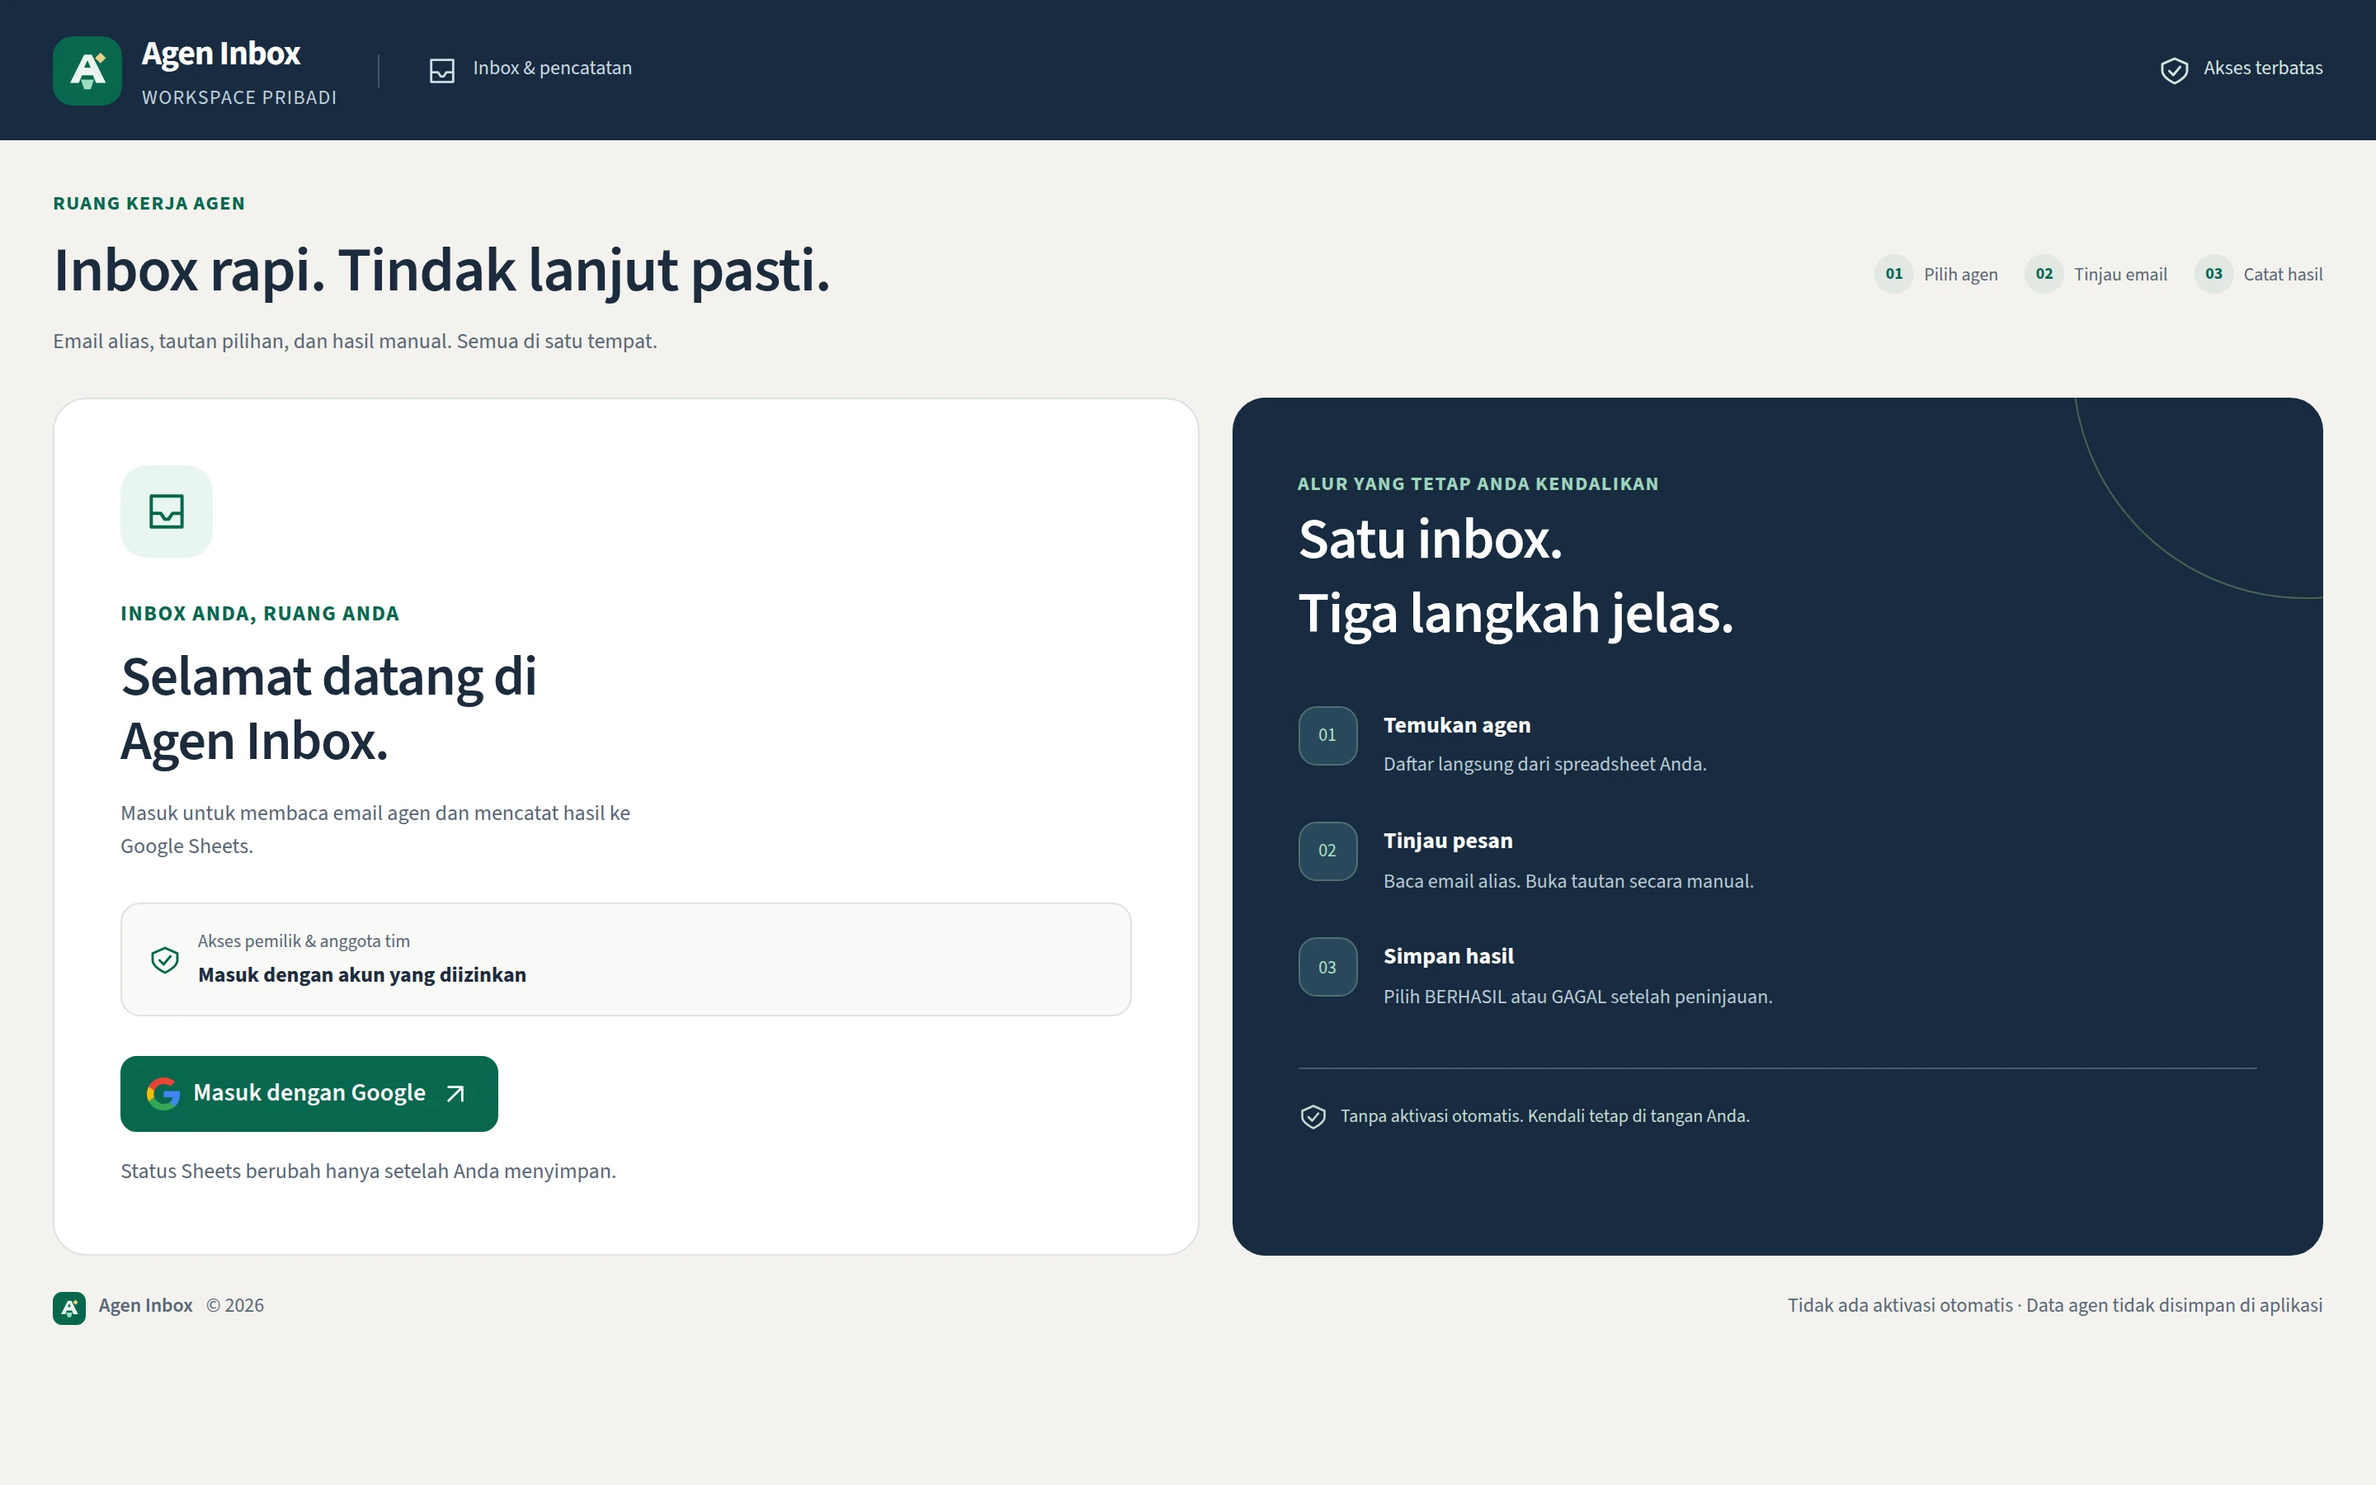
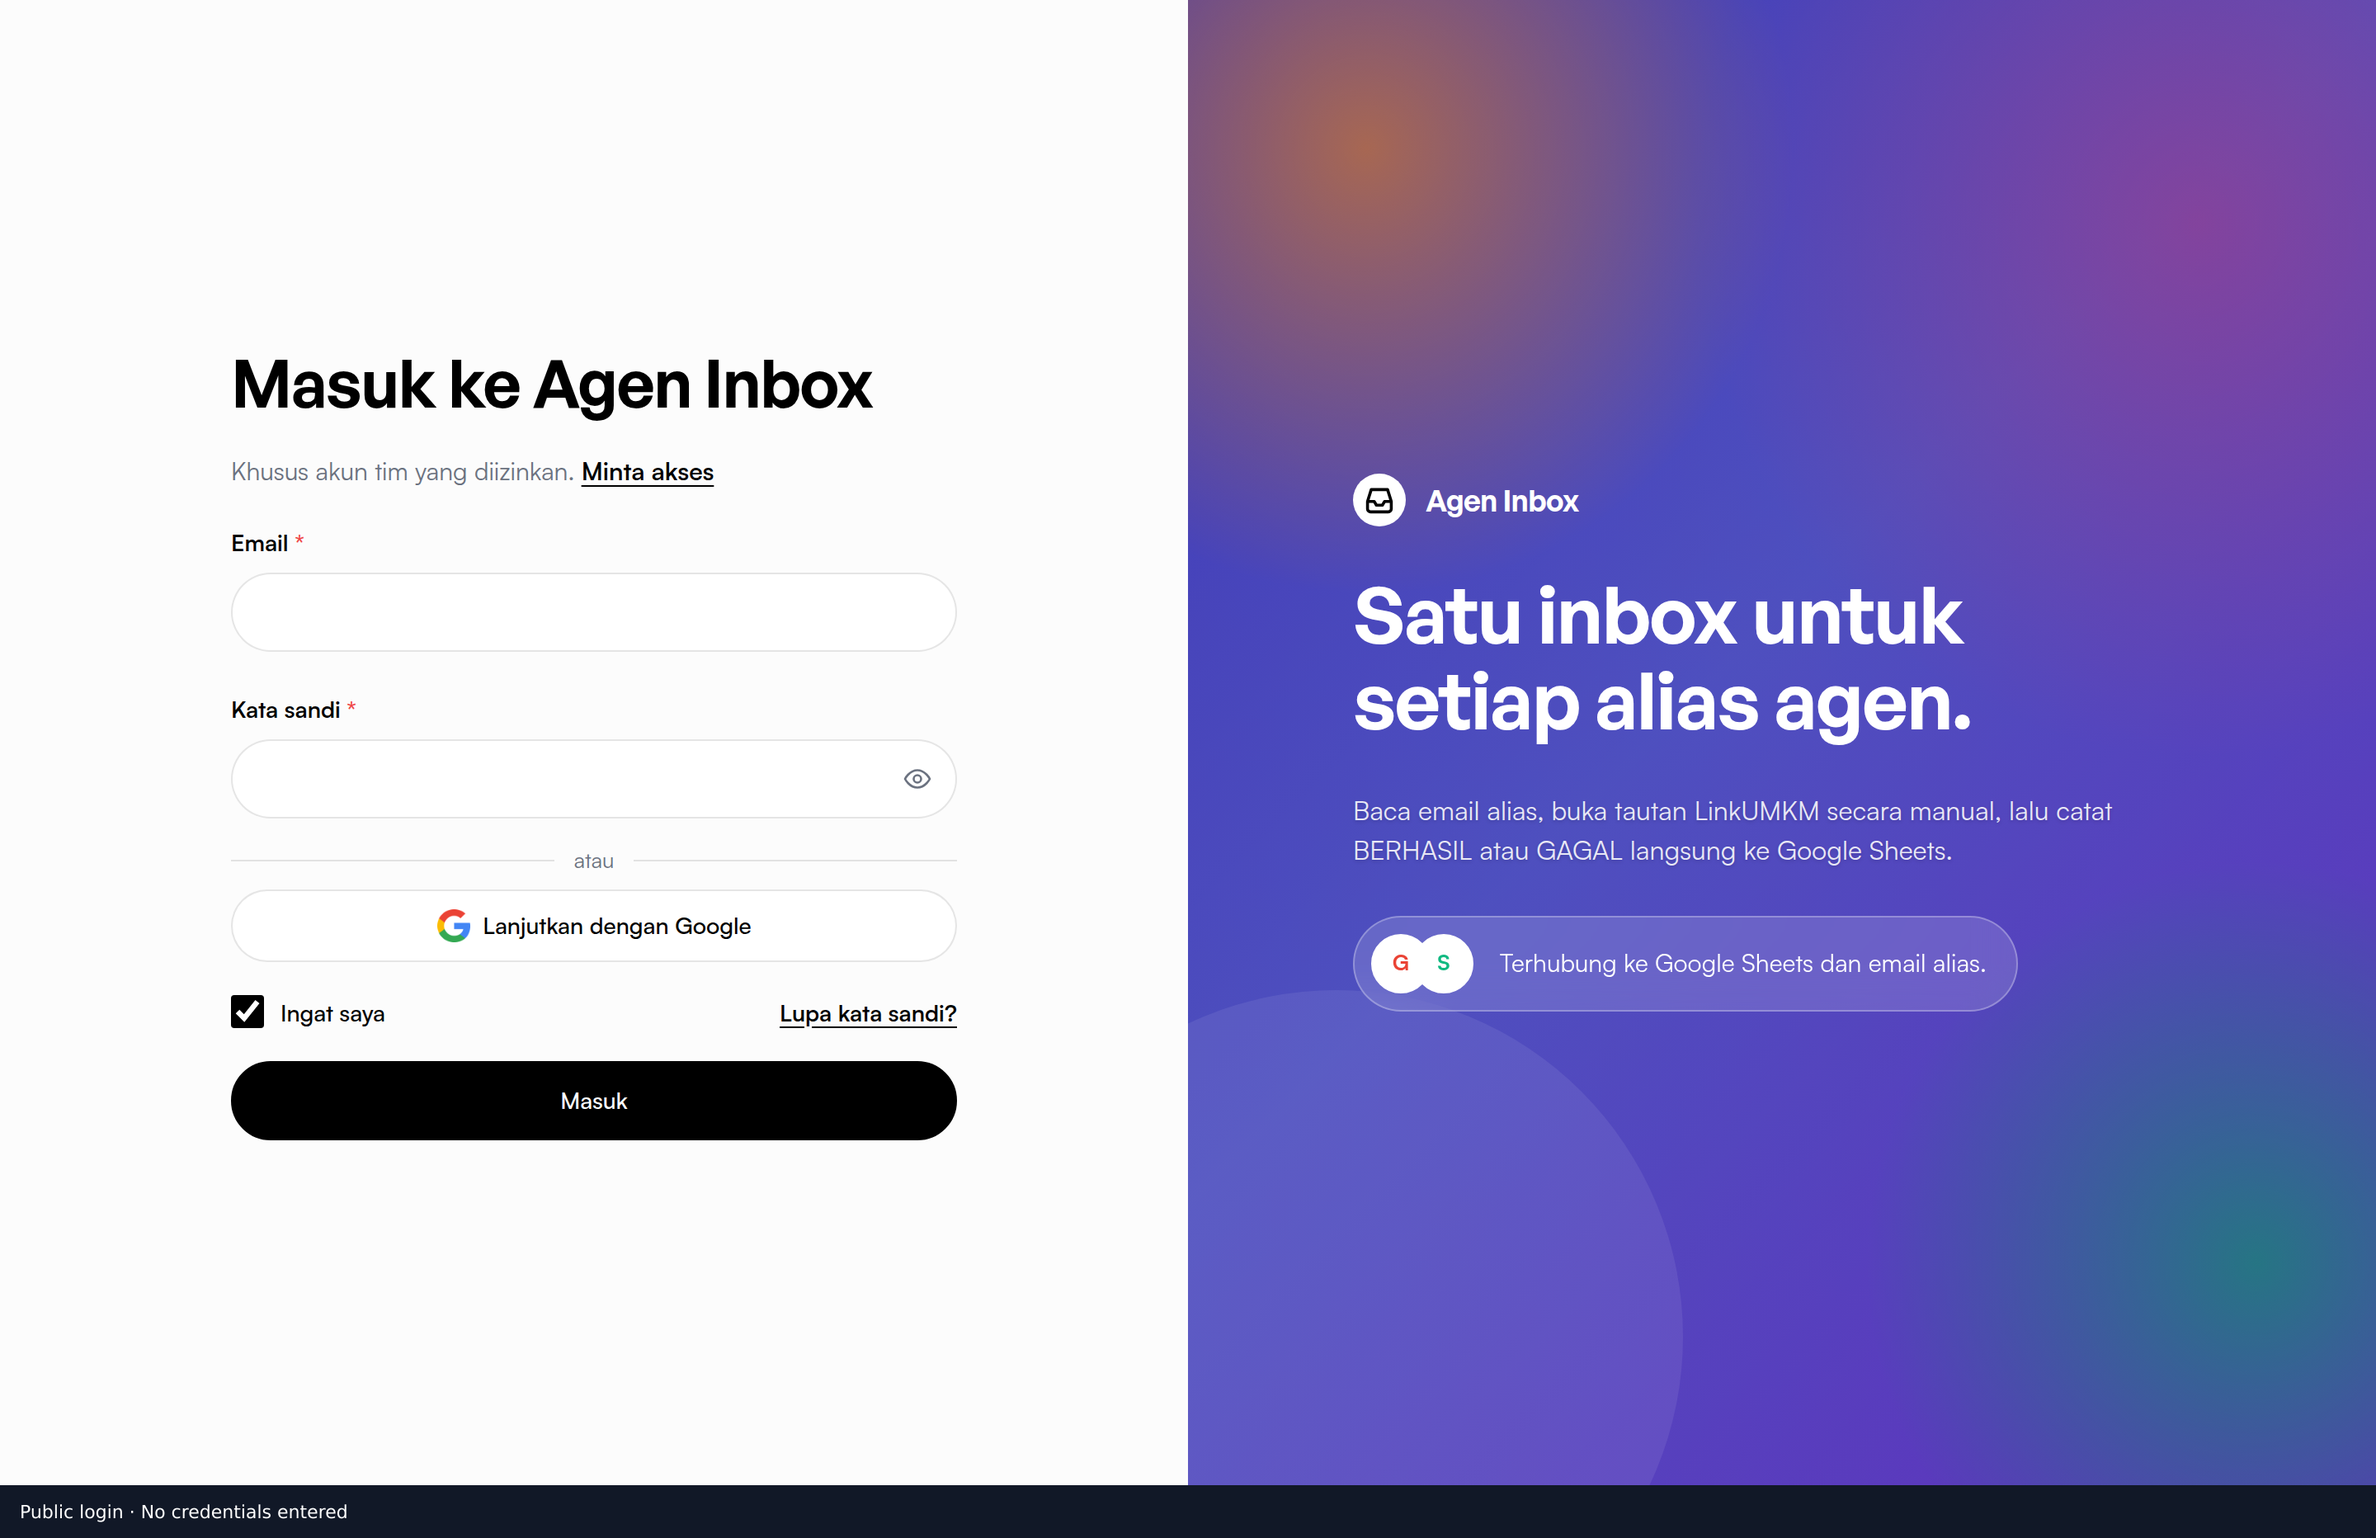
feat(projects): refresh Agen Inbox device showcase

diff --git a/lib/content.ts b/lib/content.ts
@@ -310,6 +310,7 @@ export const stackLogos: Record<string, string> = {
   Netlify: "/logos/netlify.svg",
   "Gmail API": "/logos/gmail.png",
   "Google Sheets API": "/logos/googlesheets.svg",
+  Cloudflare: "/logos/cloudflare.svg",
   Upstash: "/logos/upstash.svg",
   Vercel: "/logos/vercel.svg",
   SQLite: "/logos/sqlite.svg",
@@ -588,18 +589,27 @@ export const projects: Project[] = [
     tags: ["Web"],
     featured: false,
     role: "Full-stack Developer",
-    stack: "Next.js, React, Gmail API, Google Sheets API, Upstash, Vercel",
+    stack: "Next.js, React, Google Sheets API, Cloudflare, Upstash, Vercel",
     type: "Private Workspace / Email Workflow",
     cover: covers[1],
     image: {
       src: "/projects/agen-inbox.webp",
-      alt: "Agen Inbox on a laptop plus two phones showing public login screens and generic workflow information, not a private inbox.",
+      alt: "Agen Inbox device composition: synthetic demonstration desktop on a laptop and inbox on one phone, public login on the other phone.",
       width: 1296,
       height: 1440,
     },
     gallery: [
-      { src: "/projects/agen-inbox/login-desktop.webp", alt: "Agen Inbox public login screen on desktop with sign-in, welcome and generic workflow information; no private inbox or records.", width: 2880, height: 1800 },
-      { src: "/projects/agen-inbox/login-mobile.webp", alt: "Agen Inbox public login screen on mobile with sign-in, welcome and generic workflow information; no private inbox or records.", width: 1170, height: 2532 },
+      { src: "/projects/agen-inbox/dashboard-light.webp", alt: "Agen Inbox light desktop overview, sanitized owner screenshot with private data redacted.", width: 1904, height: 1014 },
+      { src: "/projects/agen-inbox/dashboard-dark.webp", alt: "Agen Inbox dark desktop overview, sanitized owner screenshot with private data redacted.", width: 1903, height: 1015 },
+      { src: "/projects/agen-inbox/message-detail.webp", alt: "Agen Inbox desktop inbox detail, owner identity and message content redacted.", width: 1901, height: 1012 },
+      { src: "/projects/agen-inbox/manual-review.webp", alt: "Agen Inbox manual review heading, private message and outcome redacted; no saved result asserted.", width: 1904, height: 1014 },
+      { src: "/projects/agen-inbox/settings.webp", alt: "Agen Inbox desktop settings, owner account data redacted.", width: 1919, height: 1012 },
+      { src: "/projects/agen-inbox/login-desktop.webp", alt: "Agen Inbox desktop public login, empty fields and no credentials entered.", width: 2880, height: 1864 },
+      { src: "/projects/agen-inbox/login-mobile.webp", alt: "Agen Inbox responsive mobile public login, no credentials entered.", width: 1170, height: 2596 },
+      { src: "/projects/agen-inbox/mobile-inbox-dark.webp", alt: "Agen Inbox mobile inbox with synthetic demonstration data in the real local responsive frontend.", width: 1170, height: 2596 },
+      { src: "/projects/agen-inbox/mobile-detail-dark.webp", alt: "Agen Inbox mobile message detail with synthetic demonstration data, no activation.", width: 1170, height: 2596 },
+      { src: "/projects/agen-inbox/mobile-review-dark.webp", alt: "Agen Inbox mobile manual review form with synthetic demonstration data; no status saved.", width: 1170, height: 2596 },
+      { src: "/projects/agen-inbox/mobile-settings-light.webp", alt: "Agen Inbox mobile settings with synthetic demonstration data, empty fields and no link issued.", width: 1170, height: 2596 },
     ],
     summary:
       "A private workspace for reviewing alias email and manually recording follow-up results in Google Sheets.",
@@ -607,11 +617,11 @@ export const projects: Project[] = [
     demoUrl: "https://agen-inbox.vercel.app/",
     caseStudy: {
       problem:
-        "Keep email review and spreadsheet follow-up together without automatically deciding or activating anything.",
+        "Keep alias email review and spreadsheet follow-up together without automatically deciding or activating anything.",
       approach:
-        "I built the workspace with Next.js and React, Gmail and Google Sheets integration, server-side OAuth with SHA-256 PKCE and Upstash token storage. Review stays manual, with BERHASIL/GAGAL updates limited to a single Status cell and no automatic activation.",
+        "I built the workspace with Next.js and React, Google Sheets integration, Cloudflare email ingestion and Upstash-backed session storage. Review stays manual, with BERHASIL/GAGAL updates limited to the selected Status cell and no automatic activation.",
       result:
-        "A restricted-access workflow whose public demo exposes sign-in only. Gallery images show public login screens on desktop and mobile, not a private inbox or agent records. No live Gmail or Google Sheets operation is claimed verified.",
+        "A restricted-access email review workspace. Desktop gallery views are sanitized owner screenshots with private data permanently redacted. The cover desktop and mobile workspace views use synthetic demonstration data captured from the real responsive frontend in local isolation. Public login views use no credentials. No live mailbox read, activation or Google Sheets write was performed or verified for this showcase. The repository is private.",
     },
     metrics: [],
   },

diff --git a/app/projects/[slug]/page.tsx b/app/projects/[slug]/page.tsx
@@ -84,7 +84,7 @@ export default async function ProjectPage({
             <div className="flex flex-wrap gap-6">
               {[
                 { label: "View demo", href: project.demoUrl },
-                { label: "Source code", href: project.repoUrl },
+                { label: project.slug === "agen-inbox" ? "Private repository" : "Source code", href: project.repoUrl },
               ].map(({ label, href }) => href && (
                 <a key={label} href={href} className="text-2xl text-fg underline transition-colors hover:text-muted focus-visible:text-muted motion-reduce:transition-none">
                   {label}
